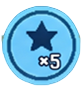
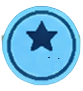
전략기 버튼 x5 문구 제거
분명 제거 하고 배경 없애기 돌렸는데 난데없이 까만점 생겼어요

Changed region(s): [[0.4578, 0.5714, 0.7711, 0.7912]]

diff --git a/docs/AI/Handoff.md b/docs/AI/Handoff.md
@@ -1,5 +1,17 @@
 # 작업 인수인계
 
+## 2026-11-13 Utility 버튼 흰 바깥 배경을 투명으로 복원
+
+- 사용자 요청 당시 Ingame_UI_Button_USkiil.png는 83×91 RGBA지만 알파가 전부255이고 네 모서리도 흰색인 상태였다. 이미지 편집 도구로 바깥 흰 배경만 투명하게 하는 편집을 요청한 뒤, 이전 원본에 보존된 정확한 알파 경계를 사용해 원래 크기로 정밀 반영했다.
+- 버튼 바깥2486픽셀의 완전 투명 및 반투명 테두리를 원래대로 복원했다. 현재 불투명 버튼 내부 픽셀은 모두 보존해 별·파란색·이전 x5 제거 상태를 유지한다. 흰색과 섞인 경계는 이전 원본 색/알파를 복원해 흰 번짐을 피했다. 현재 meta bytes/GUID와 사용자 Sprite Mode 설정도 그대로다.
+- 검증: 83×91 유지, 원본 경계 알파 동일, 불투명 내부 픽셀 동일, meta bytes 동일 검사 통과 및 수정 PNG 눈으로 확인. Unity 임포트/Play는 미실행이다. 직접 확인: Unity 임포트 완료→MainScene Play→전략 버튼 바깥에 흰 사각형 없이 게임 화면이 비쳐야 한다. 흰 배경이 남으면 임포트 완료 여부·버튼 Sprite 참조·UI Image 자체의 흰 배경 오브젝트 여부를 확인한다.
+
+## 2026-11-13 Utility 버튼 원본 그림의 x5 제거
+
+- 사용자 요청으로 `Assets/2.Resources/UI/실제 사용 UI/Ingame_UI_Button_USkiil.png`의 오른쪽 아래 x5 글자와 검은 외곽선을 제거했다. 이미지 편집 도구에 글자만 제거하고 별/원형 테두리/투명 배경을 보존하도록 요청했다. 생성된 정리 결과에서 필요한 부분만 원본 캔버스에 합성했다.
+- 원본 83×91 RGBA 크기·전체 알파 채널·meta bytes/GUID를 보존했다. 변경 픽셀369개가 글자 영역 x36~64/y52~70 안에만 있는지 확인했으며 그 밖의 별/테두리/배경 픽셀은 동일하다. 수정 PNG를 눈으로 확인했다. 코드/프리팹/씬/실제 전략 사용 횟수는 변경하지 않았다. Unity 임포트·Play는 미실행이다.
+- 직접 확인: Unity 이미지 임포트 완료→MainScene Play→전략 버튼 확인. 별과 파란 원형 버튼은 기존 모양이고 원본에 그려진 x5만 없어야 한다. 이전 글자가 남으면 임포트 완료 여부와 버튼 Sprite가 이 파일인지 확인한다. 별도로 실행 중에 표시하는 남은 횟수 텍스트는 이번 이미지 편집 대상이 아니다.
+
 ## 2026-11-13 기본 Bullet을 흰색·옅은 금색 광탄으로 변경
 
 - 사용자가 추천안 중 작은 광탄(흰 핵·옅은 금색 짧은 꼬리·작은 명중 빛)을 선택하여 구현했다. 시작 상태는 `balancing-exp-and-skill-range`, HEAD `876ad01`, 워킹트리 깨끗함이었다. 기본 공격 이동/피해/자동 타깃/발사 주기/수명/콜라이더는 유지한다.
